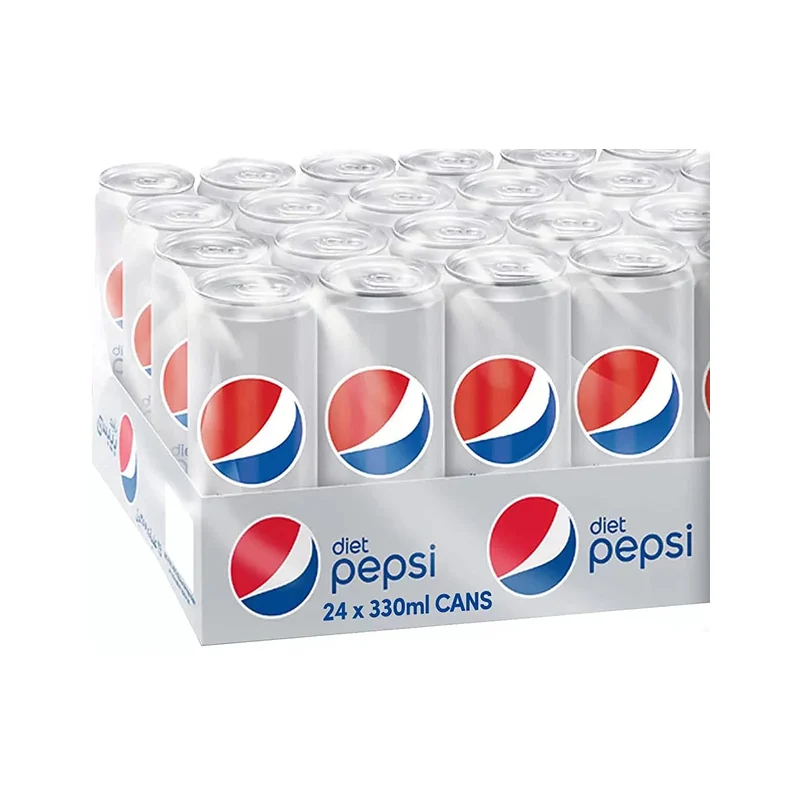
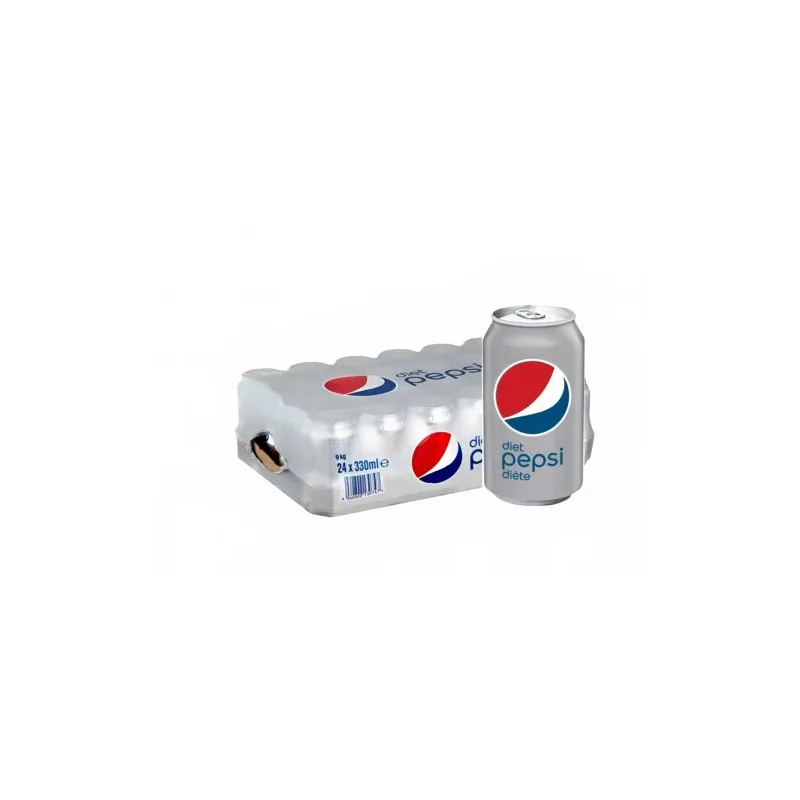
Use supplied diet Pepsi and Mountain Dew images

diff --git a/app.js b/app.js
@@ -365,7 +365,7 @@ function renderProducts(list) {
 
         var img = document.createElement('img');
         var originalImage = product.image || '';
-        img.src = 'images/optimized/product-' + product.id + '.webp?v=20260816-5';
+        img.src = 'images/optimized/product-' + product.id + '.webp?v=20260816-6';
         img.alt = product.name || '';
         img.width = 600;
         img.height = 450;

diff --git a/index.html b/index.html
@@ -8,7 +8,7 @@
     <title>ركن العمارية</title>
     <link rel="icon" type="image/png" href="images/شعار ركن العمارية 2.png">
     <link rel="stylesheet" href="tailwind-output.css">
-    <script src="app.js?v=20260816-5" defer></script>
+    <script src="app.js?v=20260816-6" defer></script>
 </head>
 <body>
 <div id="redesignRoot" class="min-h-screen bg-cream text-ink antialiased">
